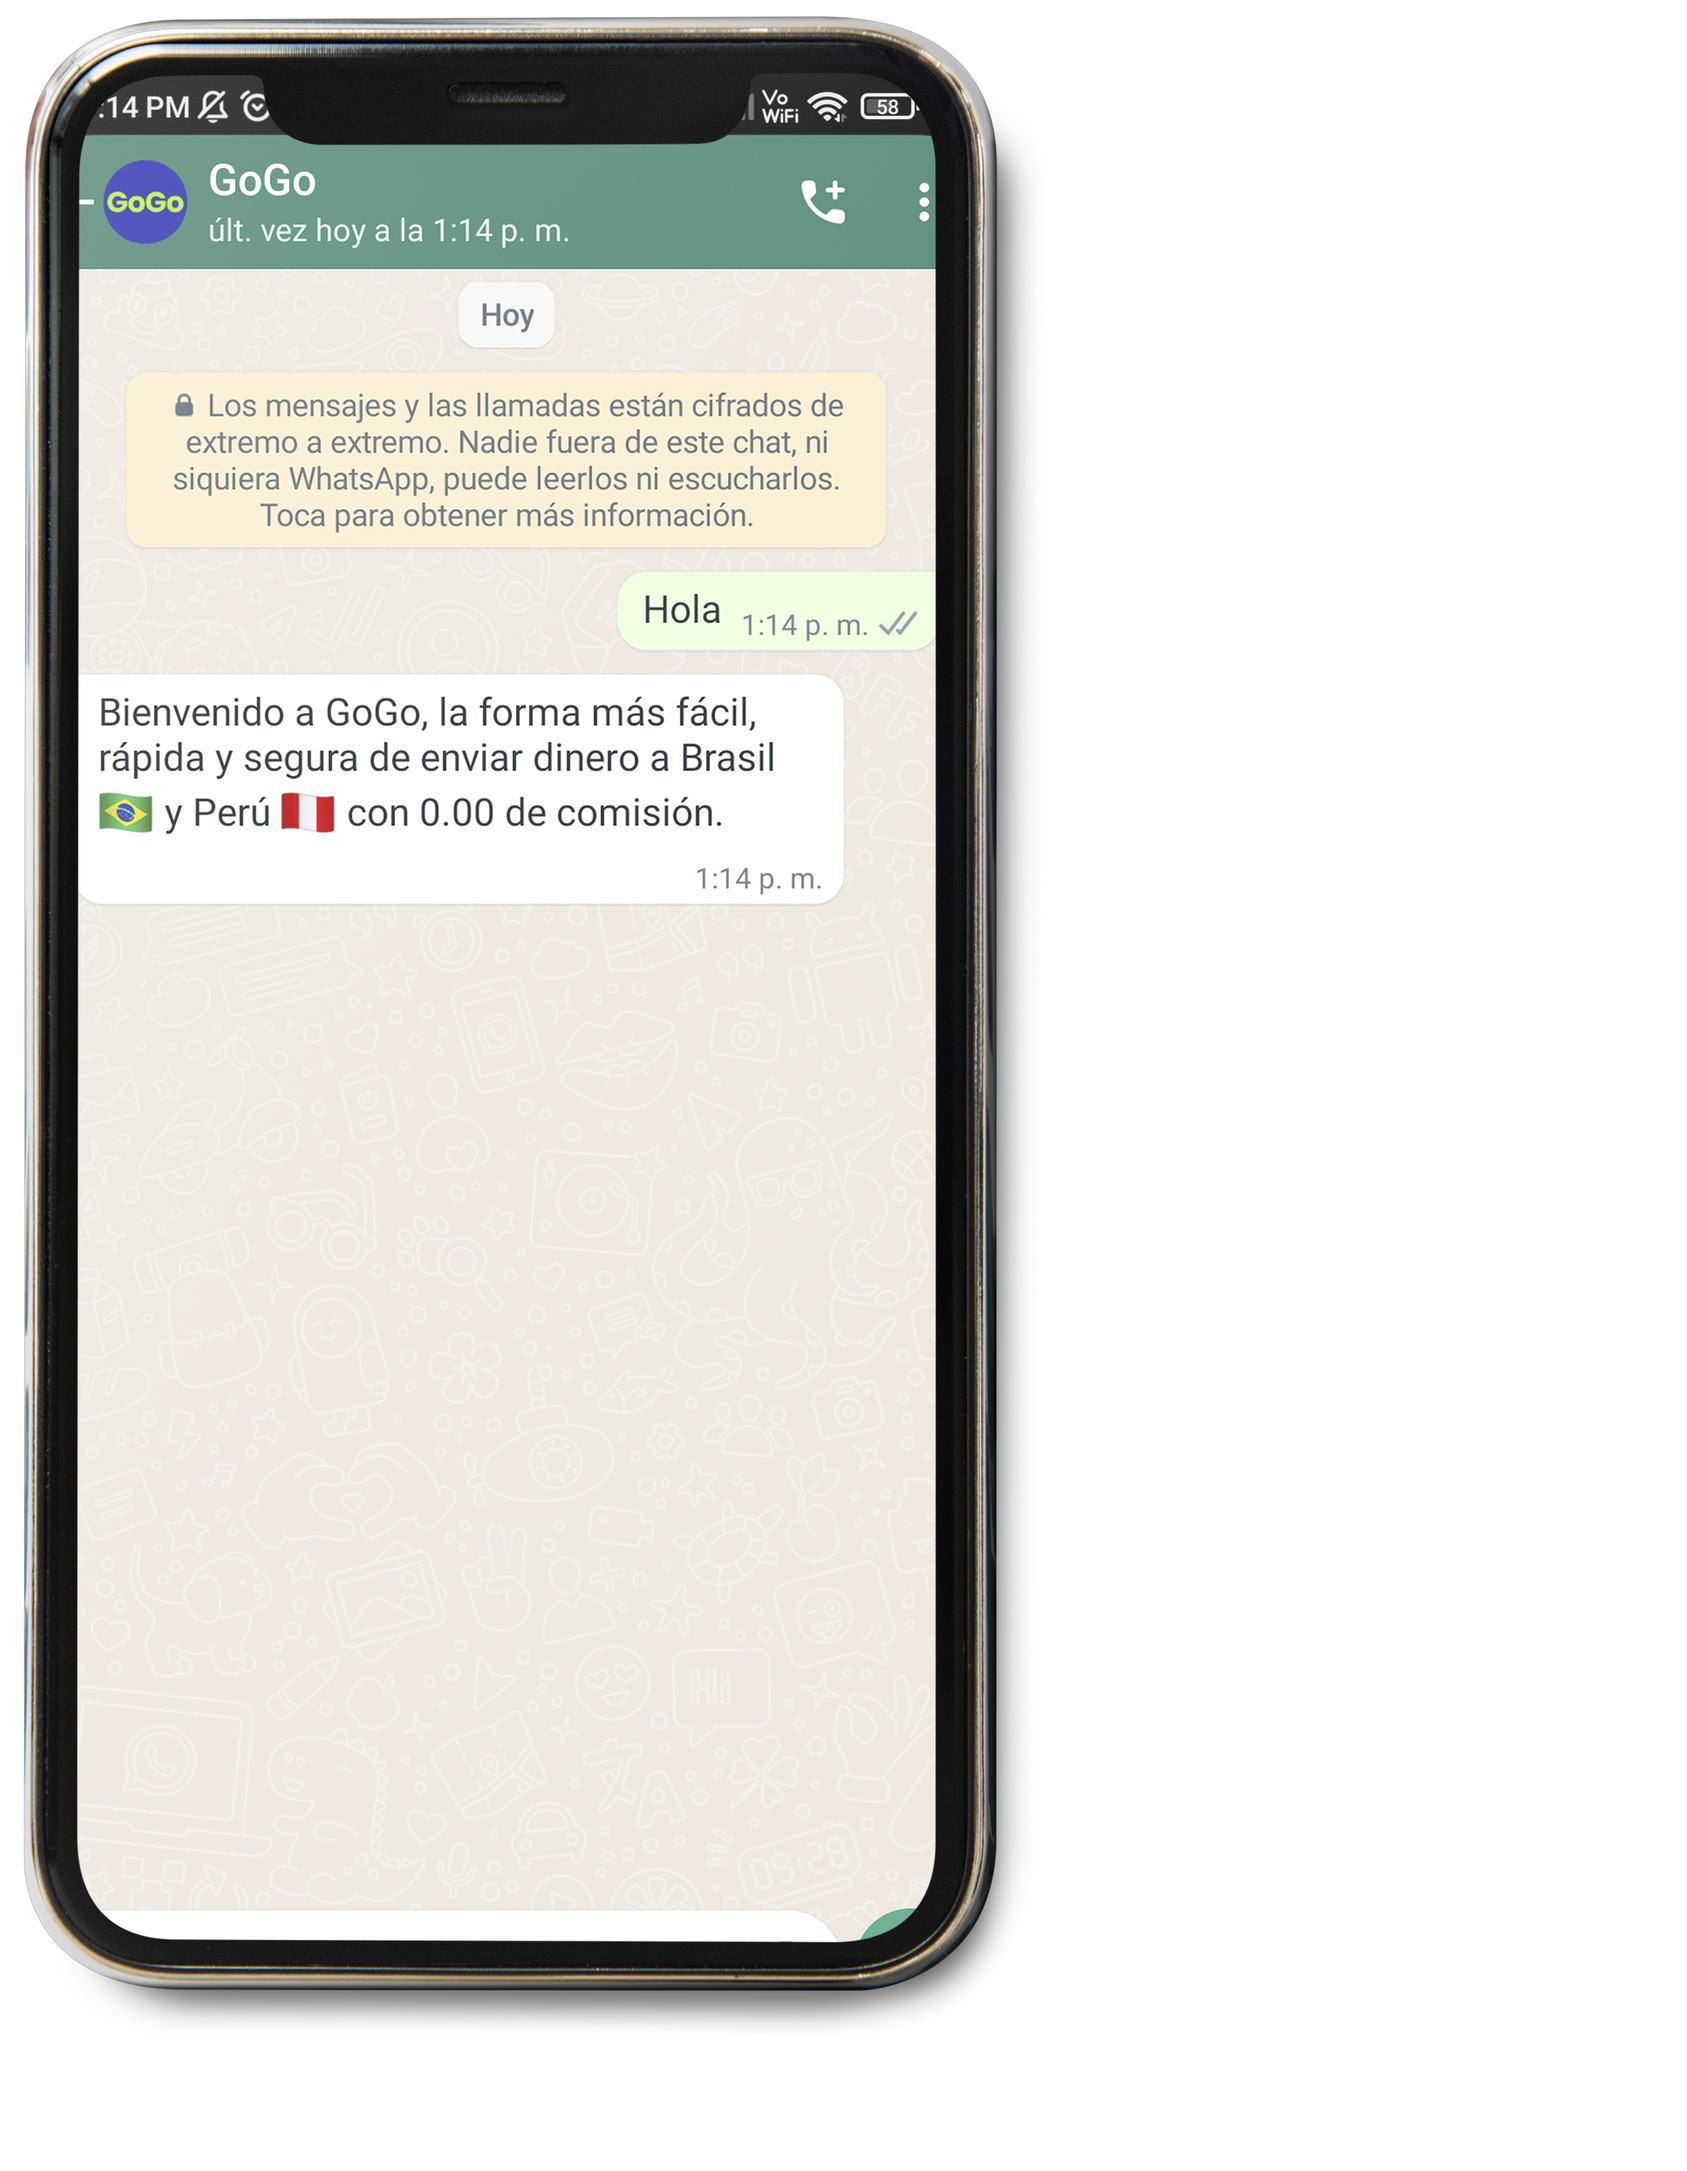
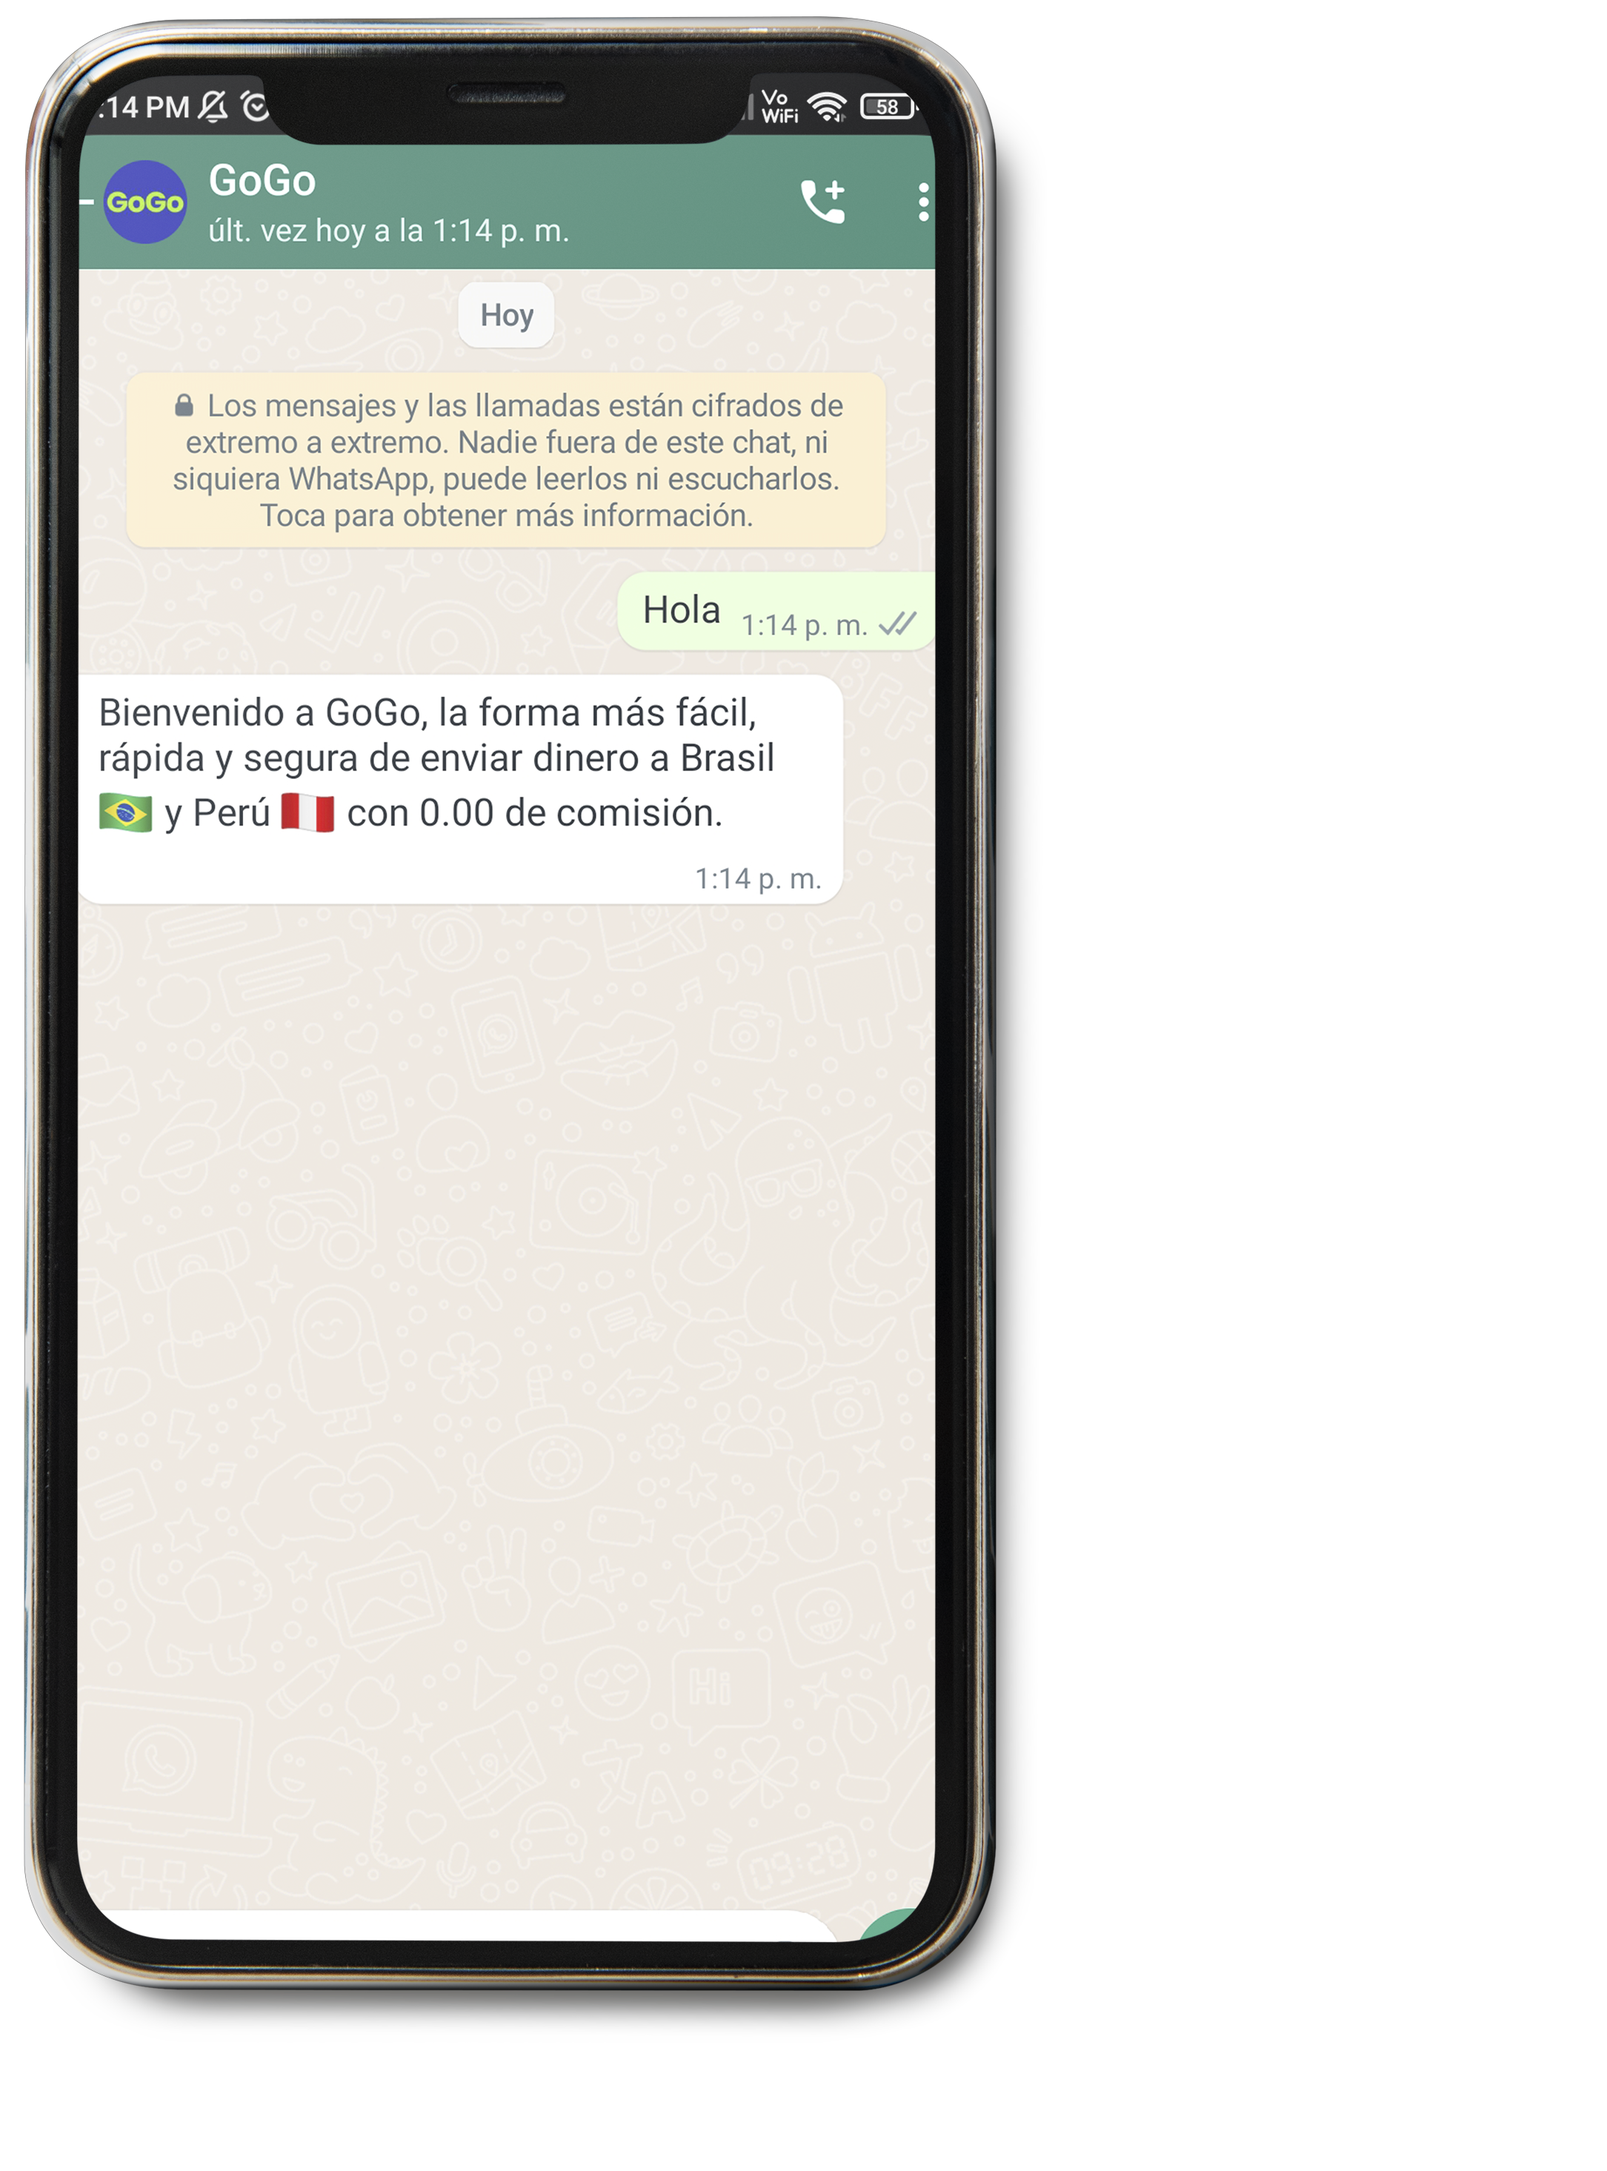
.

diff --git a/index.html b/index.html
@@ -3361,7 +3361,7 @@ height="0" width="0" style="display:none;visibility:hidden"></iframe></noscript>
                                     <a href="#" class="btn btn-orange btn-icon-arrow-right jump-focus" data-selector='[name="phone"]'>Enviar dinero ahora</a>
                                 </div>
                             </div>
-                            <img src="wp-content/themes/theme/images/cel.png" alt="" class="poster-bg-image" width="600">
+                            <img src="wp-content/themes/theme/images/cel.png" alt="" class="poster-bg-image" width="650">
                         </div>
                         <div class="poster poster-work poster-work-fee">
                             <div class="poster-title">Sin comisiones </div>
